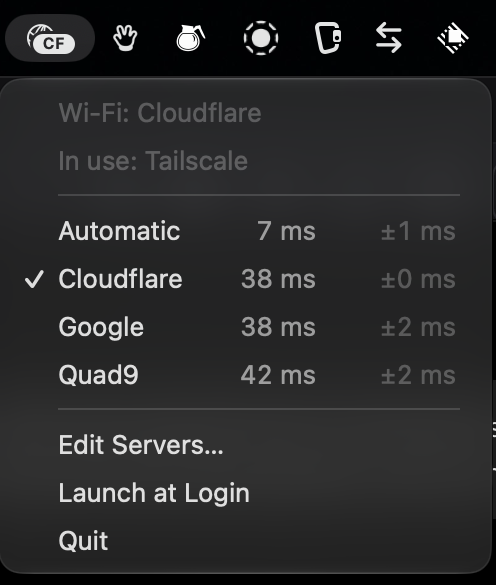
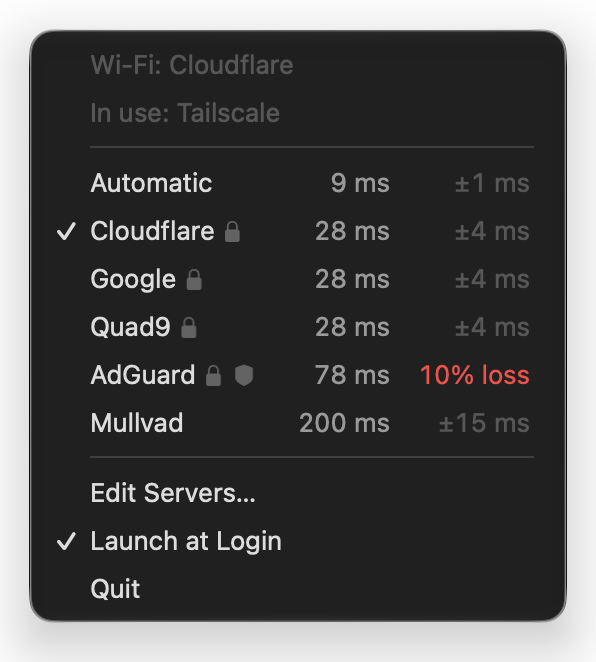
README: release history and fresh screenshots
New menu screenshot shows the encrypted-DNS lock, ad-block shield and
packet loss; new Edit Servers screenshot shows a hostname entry.

diff --git a/README.md b/README.md
@@ -2,7 +2,7 @@
 
 A tiny macOS menu bar app for switching system-wide DNS servers in one click, with live latency for each server.
 
-<img src="docs/screenshot.png" width="320" alt="Deeanes menu showing DNS presets with latency and jitter">
+<img src="docs/screenshot.png" width="298" alt="Deeanes menu showing DNS servers with latency, jitter, packet loss, encrypted-DNS locks and an ad-block shield">
 
 - **One click, whole system.** Applies to every enabled network service (Wi-Fi, Ethernet, USB tethering). VPN services like Tailscale manage their own DNS and are left alone.
 - **Live latency.** While the menu is open, every server gets a real DNS query each second, with jitter and packet loss over the last 30 s. Your router's row ("Automatic") is a quick read on Wi-Fi quality.
@@ -11,6 +11,18 @@ A tiny macOS menu bar app for switching system-wide DNS servers in one click, wi
 - **Interception warning.** A red line appears if your network or ISP is secretly answering DNS for you.
 - **Menu bar badge.** Shows which server is active (`CF`, `G`, …), including after changes made in System Settings.
 - **Editable list.** Rename, reorder, add, or remove servers, and set your own badge, in Edit Servers. Servers can be IP addresses or hostnames (`dns.example.com`); hostnames are looked up once when you type them, since macOS only accepts IPs.
+
+<img src="docs/editor.png" width="520" alt="Edit Servers window with name, badge and server fields for each preset, including a hostname entry">
+
+## Releases
+
+| Version | Date | Changes |
+|---|---|---|
+| [0.0.5](../../releases/tag/v0.0.5) | 2026-11-24 | Edit Servers: long server lists scroll to follow the caret. |
+| [0.0.4](../../releases/tag/v0.0.4) | 2026-11-24 | Hostnames as DNS servers (looked up once and cached). Editor fields take focus instantly instead of after ~0.5 s. |
+| [0.0.3](../../releases/tag/v0.0.3) | 2026-11-23 | Lock icon for servers macOS upgrades to encrypted DNS (DoH/DoT). |
+| [0.0.2](../../releases/tag/v0.0.2) | 2026-11-23 | Apple Silicon only (half the download), new app icon, `.dmg` download. |
+| [0.0.1](../../releases/tag/v0.0.1) | 2026-11-23 | First release. |
 
 ## Resource use
 
@@ -26,7 +38,7 @@ Measured on an M4 MacBook Air (macOS 27), v0.0.2:
 
 ## Install
 
-1. Download `Deeanes-<version>.dmg` from [Releases](../../releases), open it, and drag Deeanes to Applications. It is about 490 KB. A `.zip` is also there if you prefer.
+1. Download `Deeanes-<version>.dmg` from [Releases](../../releases), open it, and drag Deeanes to Applications. It is about 550 KB. A `.zip` is also there if you prefer.
 2. Open Deeanes from Applications.
 3. The app is not notarized, so macOS blocks the first launch. Allow it in **System Settings → Privacy & Security → Open Anyway**, or run:
    ```sh
